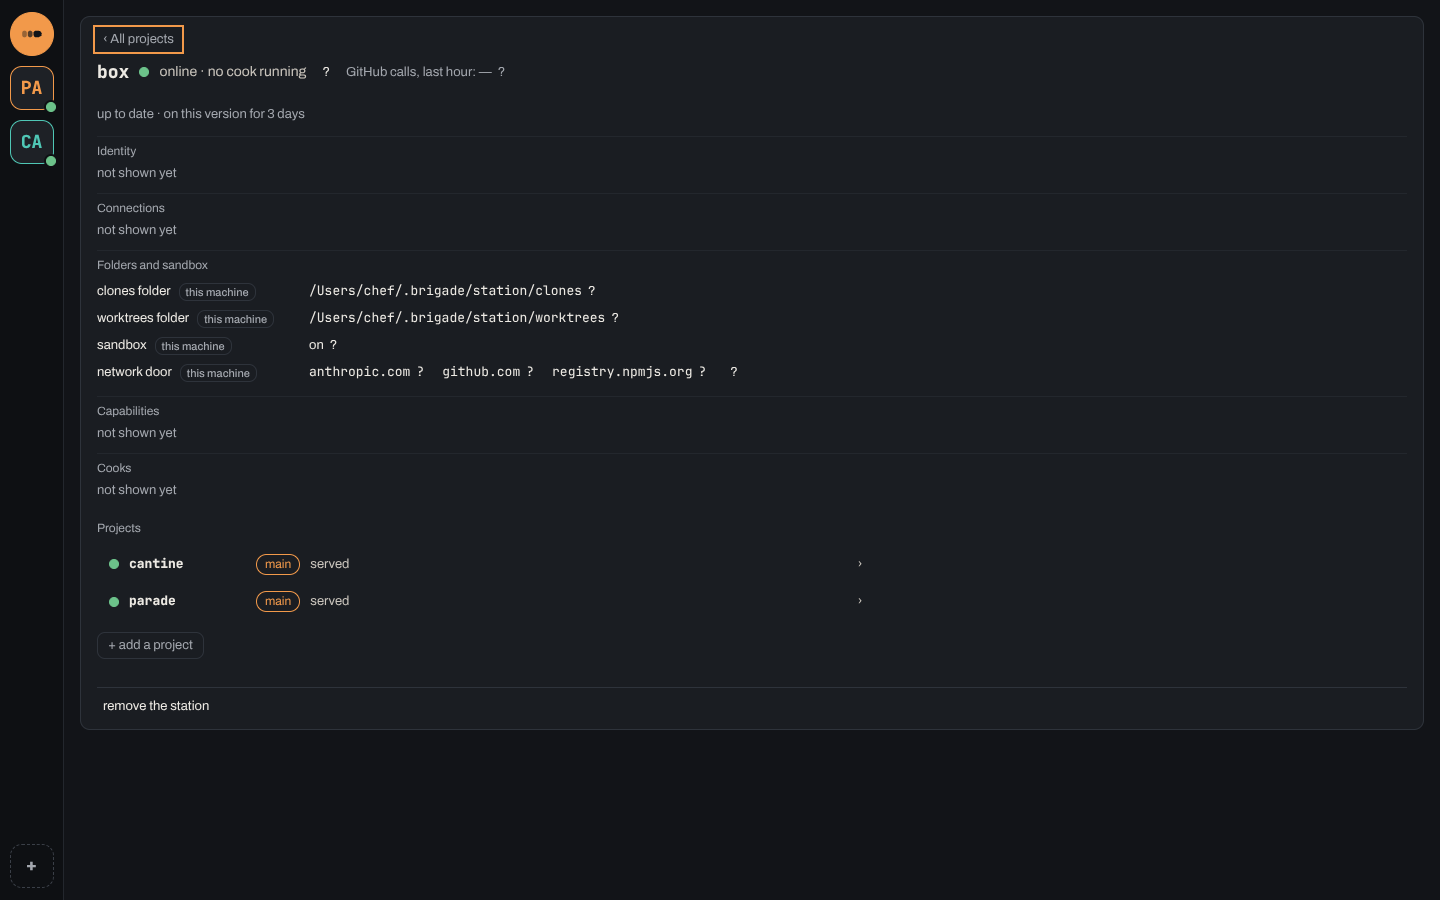
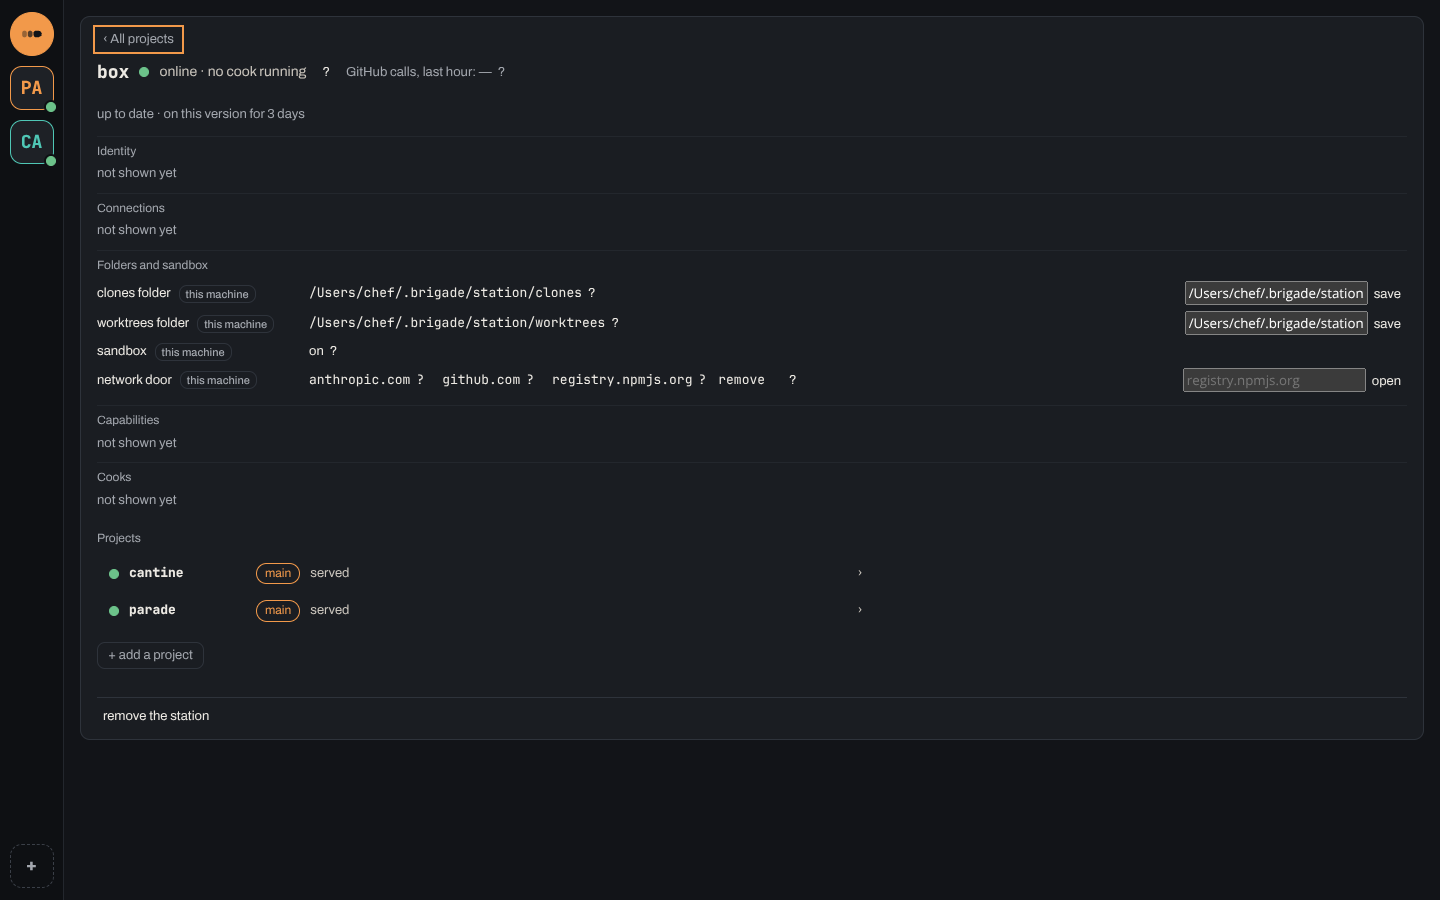
fix(#2644): the sandbox state is read, another station shows nothing invented, the section fixes its peau class and its review remarks

diff --git a/app/src/vue/station/page/sections/dossiers-et-bac-a-sable.js b/app/src/vue/station/page/sections/dossiers-et-bac-a-sable.js
@@ -30,6 +30,9 @@ export const BAC = {
 export const PORTE = "the network hosts a cook may reach — everything else is refused";
 export const INDISPONIBLE = "folders and sandbox unavailable";
 export const SANS_LECTURE = "this app does not read them";
+export const AUTRE_STATION = "not available for this station";
+export const SUR_SON_ORDINATEUR = "its folders and hosts are read and changed on its own computer";
+export const PAS_ENCORE = " — the station does not apply this setting yet";
 
 /** @param {Fabrique} doc @param {string} balise @param {string} texte @param {string} [classe] */
 function avec(doc, balise, texte, classe) {
@@ -61,25 +64,26 @@ function rangee(doc, { nom, cle, niveau, valeur, controle = [], dessous = "" }) 
 export function poserSection(doc, contexte) {
   const racine = doc.createElement("div");
   racine.className = "dossiers-et-bac-a-sable";
-  const port = contexte.reglages;
-  let refus = "";
+  const port = contexte.lectureSeule ? undefined : contexte.reglages;
+  /** @type {Record<string, string>} */
+  let refus = {};
 
   const lire = async () => {
-    const lus = port === undefined ? { refus: INDISPONIBLE, detail: SANS_LECTURE } : await port.lire().catch((/** @type {unknown} */ e) => ({ refus: INDISPONIBLE, detail: e instanceof Error ? e.message : String(e) }));
+    const lus = contexte.lectureSeule ? { refus: AUTRE_STATION, detail: SUR_SON_ORDINATEUR } : port === undefined ? { refus: INDISPONIBLE, detail: SANS_LECTURE } : await port.lire().catch((/** @type {unknown} */ e) => ({ refus: INDISPONIBLE, detail: e instanceof Error ? e.message : String(e) }));
     if ("refus" in lus) return racine.replaceChildren(lectureIndisponible(doc, lus.refus, lus.detail ?? ""));
     racine.replaceChildren(...lignes(lus));
   };
 
-  /** @param {{ clones?: string, worktrees?: string, hotes?: string[] }} changement */
-  const ecrire = async (changement) => {
+  /** @param {"clones" | "worktrees" | "porte"} cle @param {{ clones?: string, worktrees?: string, hotes?: string[] }} changement */
+  const ecrire = async (cle, changement) => {
     const rendu = await (port?.ecrire?.(changement) ?? Promise.resolve({ refus: "nothing was changed", detail: "this app cannot write them" }));
-    refus = "refus" in rendu ? rendu.refus : "";
+    refus = "refus" in rendu ? { [cle]: rendu.detail === undefined ? rendu.refus : `${rendu.refus} — ${rendu.detail}` } : {};
     await lire();
   };
 
   /** @param {Reglages} lus */
   function lignes(lus) {
-    const modifiable = !contexte.lectureSeule && port?.ecrire !== undefined;
+    const modifiable = port?.ecrire !== undefined;
     const niveau = () => niveauDe(doc, "dossier");
     /** @param {"clones" | "worktrees"} cle @param {string} nom @param {string} aide */
     const dossier = (cle, nom, aide) => {
@@ -89,18 +93,19 @@ export function poserSection(doc, contexte) {
         champ.type = "text";
         champ.value = lus[cle];
         champ.ariaLabel = `Change the ${nom}`;
-        controle.push(champ, boutonAction(doc, "save", () => void ecrire({ [cle]: String(champ.value).trim() })));
+        controle.push(champ, boutonAction(doc, "save", () => void ecrire(cle, { [cle]: String(champ.value).trim() })));
       }
-      return rangee(doc, { nom, cle: "dossier", niveau: niveau(), valeur: [avec(doc, "span", lus[cle], "mono"), survol(doc, aide)], controle, dessous: refus });
+      return rangee(doc, { nom, cle: "dossier", niveau: niveau(), valeur: [avec(doc, "span", lus[cle], "mono"), survol(doc, aide + PAS_ENCORE)], controle, dessous: refus[cle] ?? "" });
     };
     const bac = BAC[lus.bac];
     const ajoutes = lus.hotes.filter(({ ajoute }) => ajoute);
     const porte = [];
     for (const { hote, origine, ajoute } of lus.hotes) {
-      const un = avec(doc, "span", hote, "mono hote");
+      const un = avec(doc, "span", hote, "mono");
+      un.className = "mono hote";
       un.dataset.hote = hote;
       un.append(survol(doc, origine));
-      if (modifiable && ajoute) un.append(boutonAction(doc, "remove", () => void ecrire({ hotes: ajoutes.map((h) => h.hote).filter((h) => h !== hote) })));
+      if (modifiable && ajoute) un.append(boutonAction(doc, "remove", () => void ecrire("porte", { hotes: ajoutes.map((h) => h.hote).filter((h) => h !== hote) })));
       porte.push(un);
     }
     const controle = [];
@@ -109,13 +114,13 @@ export function poserSection(doc, contexte) {
       champ.type = "text";
       champ.placeholder = "registry.npmjs.org";
       champ.ariaLabel = "Host to open";
-      controle.push(champ, boutonAction(doc, "open", () => void ecrire({ hotes: [...ajoutes.map((h) => h.hote), String(champ.value).trim()] })));
+      controle.push(champ, boutonAction(doc, "open", () => void ecrire("porte", { hotes: [...ajoutes.map((h) => h.hote), String(champ.value).trim()] })));
     }
     return [
       dossier("clones", "clones folder", CLONES),
       dossier("worktrees", "worktrees folder", WORKTREES),
       rangee(doc, { nom: "sandbox", cle: "bac", niveau: niveauDe(doc, "ordinaires"), valeur: [avec(doc, "span", bac.dit), survol(doc, bac.survol)] }),
-      rangee(doc, { nom: "network door", cle: "porte", niveau: niveauDe(doc, "porte"), valeur: [...porte, survol(doc, PORTE)], controle }),
+      rangee(doc, { nom: "network door", cle: "porte", niveau: niveauDe(doc, "porte"), valeur: [...porte, survol(doc, PORTE + PAS_ENCORE)], controle, dessous: refus.porte ?? "" }),
     ];
   }
 

diff --git a/app/test/station-page-dossiers.test.ts b/app/test/station-page-dossiers.test.ts
@@ -1,7 +1,7 @@
 // La section « Folders and sandbox » de la page d'une station (#2644) : elle montre les dossiers, le bac à sable et la
 // porte réseau, change un dossier ou la porte sur cet ordinateur et le relit, et ne change rien sur une autre station.
 import assert from "node:assert/strict";
-import { mkdtempSync, rmSync } from "node:fs";
+import { mkdtempSync, readFileSync, rmSync, writeFileSync } from "node:fs";
 import { tmpdir } from "node:os";
 import { join } from "node:path";
 import { describe, test } from "node:test";
@@ -20,10 +20,10 @@ const ligne = (page: Faux, cle: string) => descendants(page).find((n) => n.datas
 const texte = (noeud: Faux): string => descendants(noeud).map((n) => n.textContent).join("|");
 
 // Un port en mémoire, soutenu par le vrai magasin de l'app dans un dossier d'essai.
-function port() {
+function port(sansBac = false) {
   const dossier = mkdtempSync(join(tmpdir(), "reglages-"));
   const fichier = join(dossier, "station-reglages.json");
-  return { fichier, dossier, lire: async () => lireReglagesDeLaStation(fichier, CALCULES), ecrire: async (c: any) => ecrireReglagesDeLaStation(fichier, c) };
+  return { fichier, dossier, lire: async () => lireReglagesDeLaStation(fichier, CALCULES, sansBac), ecrire: async (c: any) => ecrireReglagesDeLaStation(fichier, c) };
 }
 async function section(locale: string, reglages: ReturnType<typeof port>) {
   const page = (await poserPageDeStation(doc, { station: STATION, locale, reglages })) as Faux;
@@ -71,16 +71,54 @@ describe("la section dossiers et bac à sable", () => {
     descendants(ligne(page, "dossier")).find((n) => n.balise === "button" && n.textContent === "save")?.click();
     await repos();
     assert.match(texte(page), /must be an absolute path/);
-    assert.equal((await reglages.lire()).clones, "/st/clones");
+    assert.equal((await reglages.lire() as { clones: string }).clones, "/st/clones");
     rmSync(reglages.dossier, { recursive: true });
   });
 
-  test("sur une autre station, la section montre sans offrir de rien changer", async () => {
+  test("le bac à sable s'affiche « off » quand le chef a choisi de continuer sans", async () => {
+    const reglages = port(true);
+    const page = await section("gist-mac", reglages);
+    assert.match(texte(ligne(page, "bac")), /off/);
+    rmSync(reglages.dossier, { recursive: true });
+  });
+
+  test("un hôte ouvert se retire, un hôte invalide est refusé sous la porte", async () => {
+    const reglages = port();
+    const page = await section("gist-mac", reglages);
+    const porte = () => descendants(ligne(page, "porte"));
+    (porte().find((n) => n.balise === "input") as Faux).value = "registry.npmjs.org";
+    porte().find((n) => n.balise === "button" && n.textContent === "open")?.click();
+    await repos();
+    assert.match(texte(page), /registry\.npmjs\.org/);
+    (porte().find((n) => n.balise === "input") as Faux).value = "not a host";
+    porte().find((n) => n.balise === "button" && n.textContent === "open")?.click();
+    await repos();
+    assert.match(texte(ligne(page, "porte")), /not a host/);
+    assert.doesNotMatch(texte(ligne(page, "dossier")), /not a host/, "le refus reste sous son réglage");
+    porte().find((n) => n.balise === "button" && n.textContent === "remove")?.click();
+    await repos();
+    assert.doesNotMatch(texte(page), /registry\.npmjs\.org/);
+    rmSync(reglages.dossier, { recursive: true });
+  });
+
+  test("un fichier corrompu se dit et n'est pas écrasé ; un chemin Windows absolu passe", () => {
+    const dossier = mkdtempSync(join(tmpdir(), "reglages-"));
+    const fichier = join(dossier, "station-reglages.json");
+    writeFileSync(fichier, "{ pas du json");
+    assert.ok("refus" in lireReglagesDeLaStation(fichier, CALCULES));
+    assert.ok("refus" in ecrireReglagesDeLaStation(fichier, { clones: "/a" }));
+    assert.equal(readFileSync(fichier, "utf8"), "{ pas du json");
+    rmSync(fichier);
+    assert.deepEqual(ecrireReglagesDeLaStation(fichier, { clones: "C:\\brigade\\clones" }), { fait: "saved on this machine" });
+    rmSync(dossier, { recursive: true });
+  });
+
+  test("sur une autre station, la section ne montre rien de cet ordinateur et n'offre rien à changer", async () => {
     const reglages = port();
     const page = await section("autre-station", reglages);
-    assert.match(texte(page), /\/st\/clones/);
-    assert.match(texte(page), /github\.com/);
-    assert.equal(descendants(page).filter((n) => n.balise === "input" || n.balise === "button" && n.textContent !== "?").length, 0);
+    assert.match(texte(page), /not available for this station/);
+    assert.doesNotMatch(texte(page), /\/st\/clones|github\.com/);
+    assert.equal(descendants(page).filter((n) => n.balise === "input" || (n.balise === "button" && n.textContent !== "?")).length, 0);
     rmSync(reglages.dossier, { recursive: true });
   });
 });

diff --git a/app/src/reglages-de-la-station.ts b/app/src/reglages-de-la-station.ts
@@ -3,7 +3,7 @@
 // chef a changé — un dossier, les hôtes qu'il ouvre en plus du socle et de ce que le dépôt déclare ; le reste se lit
 // là où la station le calcule. Le fichier est relu à chaque lecture : ce qui est écrit se montre au rechargement.
 import { mkdirSync, readFileSync, renameSync, writeFileSync } from "node:fs";
-import { dirname, isAbsolute } from "node:path";
+import { dirname, posix, win32 } from "node:path";
 
 export type Reglages = { clones: string; worktrees: string; bac: "on" | "off"; hotes: { hote: string; origine: string; ajoute: boolean }[] };
 export type Changement = { clones?: string; worktrees?: string; hotes?: string[] };
@@ -19,17 +19,29 @@ export const SOCLE = [
 export const OUVERT_PAR_LE_CHEF = "opened by you on this machine";
 const HOTE = /^(\*\.)?((?:[a-z0-9](?:[a-z0-9-]*[a-z0-9])?\.)+[a-z](?:[a-z0-9-]*[a-z0-9])?)(:[1-9][0-9]{0,4})?$/;
 
+const absolu = (chemin: string) => posix.isAbsolute(chemin) || win32.isAbsolute(chemin);
+
+// Un fichier absent n'a rien gardé ; un fichier illisible (JSON corrompu) se dit, pour que l'écriture ne l'écrase pas.
 function lireGardes(fichier: string): Gardes {
+  let brut: string;
   try {
-    const lu = JSON.parse(readFileSync(fichier, "utf8"));
-    return typeof lu === "object" && lu !== null && !Array.isArray(lu) ? lu : {};
-  } catch {
-    return {};
+    brut = readFileSync(fichier, "utf8");
+  } catch (erreur) {
+    if ((erreur as NodeJS.ErrnoException).code === "ENOENT") return {};
+    throw erreur;
   }
+  const lu = JSON.parse(brut);
+  if (typeof lu !== "object" || lu === null || Array.isArray(lu)) throw new Error("the file does not hold an object");
+  return lu;
 }
 
-export function lireReglagesDeLaStation(fichier: string, calcules: { clone: string; worktrees: string }, sansBac = false): Reglages {
-  const gardes = lireGardes(fichier);
+export function lireReglagesDeLaStation(fichier: string, calcules: { clone: string; worktrees: string }, sansBac = false): Reglages | Refus {
+  let gardes: Gardes;
+  try {
+    gardes = lireGardes(fichier);
+  } catch (erreur) {
+    return { refus: "the saved folders and hosts could not be read", detail: erreur instanceof Error ? erreur.message : String(erreur) };
+  }
   const ajoutes = Array.isArray(gardes.hotes) ? gardes.hotes.filter((h): h is string => typeof h === "string") : [];
   return {
     clones: gardes.clones ?? calcules.clone,
@@ -40,11 +52,16 @@ export function lireReglagesDeLaStation(fichier: string, calcules: { clone: stri
 }
 
 export function ecrireReglagesDeLaStation(fichier: string, changement: Changement): { fait: string } | Refus {
-  const gardes = lireGardes(fichier);
+  let gardes: Gardes;
+  try {
+    gardes = lireGardes(fichier);
+  } catch (erreur) {
+    return { refus: "nothing was changed: the saved file could not be read", detail: erreur instanceof Error ? erreur.message : String(erreur) };
+  }
   for (const cle of ["clones", "worktrees"] as const) {
     const valeur = changement[cle];
     if (valeur === undefined) continue;
-    if (typeof valeur !== "string" || !isAbsolute(valeur)) return { refus: `the ${cle} folder must be an absolute path`, detail: `“${String(valeur)}” is not one` };
+    if (typeof valeur !== "string" || !absolu(valeur)) return { refus: `the ${cle} folder must be an absolute path`, detail: `“${String(valeur)}” is not one` };
     gardes[cle] = valeur;
   }
   if (changement.hotes !== undefined) {

diff --git a/app/src/main.ts b/app/src/main.ts
@@ -1045,11 +1045,13 @@ ipcMain.handle("dossiersDeLaStation", async (_, nom: unknown): Promise<DossiersD
 // Les dossiers et la porte réseau de la station de cet ordinateur, changés depuis sa page (#2644) : lus et écrits dans un
 // fichier de cette machine (reglages-de-la-station.ts). Un téléphone n'a pas de station.
 const fichierDesReglagesDeLaStation = join(dirname(cheminConfiguration()), "station-reglages.json");
+// Le bac à sable est « off » dès qu'un projet cuisiné ici a reçu « continuer sans » (suivi publié par la principale).
+const sansBacASable = () => (projetsDesStations.vu()?.projets ?? []).some((projet) => projet.onboarding?.sansBacASable === true && projet.stations.some(({ principale, id }) => principale && id === projetsDesStations.vu()?.locale));
 ipcMain.handle("reglagesDeLaStation:lire", async () => {
   if (role.role !== "station") return { refus: "this device runs no station" };
   try {
     const { lieuxDuProjet, worktreesDeLaStation } = (await import(pathToFileURL(join(emplacements.runtime, "src", "station", "configuration.ts")).href)) as typeof import("../../runtime/src/station/configuration.ts");
-    return lireLesReglagesDeStation(fichierDesReglagesDeLaStation, { clone: dirname(lieuxDuProjet(racineDeLaStation, "x", process.env.HOME).clone), worktrees: worktreesDeLaStation(racineDeLaStation, process.env.HOME) });
+    return lireLesReglagesDeStation(fichierDesReglagesDeLaStation, { clone: dirname(lieuxDuProjet(racineDeLaStation, "x", process.env.HOME).clone), worktrees: worktreesDeLaStation(racineDeLaStation, process.env.HOME) }, sansBacASable());
   } catch (erreur) {
     return { refus: "its folders could not be read", detail: erreur instanceof Error ? erreur.message : String(erreur) };
   }

diff --git a/app/src/vue/station/page/StationPage.js b/app/src/vue/station/page/StationPage.js
@@ -23,8 +23,9 @@ import { niveauReglage } from "./NiveauReglage.js";
 /**
  * Ce que chaque section reçoit : la station, si elle est celle de cet ordinateur, si elle se montre sans se régler, et
  * la marque du niveau d'un réglage, par sa clé de niveaux.js.
- * @typedef {{ station: StationOuverte, ici: boolean, lectureSeule: boolean, niveau(cle: string): any, reglages?: any }} Contexte
+ * @typedef {{ station: StationOuverte, ici: boolean, lectureSeule: boolean, niveau(cle: string): any, reglages?: Port }} Contexte
  */
+/** @typedef {import("./sections/dossiers-et-bac-a-sable.js").Port} Port */
 /** @typedef {{ poserSection(doc: Fabrique, contexte: Contexte): any }} Section */
 /** @typedef {(fichier: string) => Promise<Partial<Section>> | undefined} Charger */
 
@@ -54,7 +55,7 @@ export function estCetOrdinateur(station, locale) {
 const depuisSections = (fichier) => (LIVREES.has(fichier) ? import(`./sections/${fichier}.js`) : undefined);
 
 // La page entière : un élément par section, dans l'ordre de SECTIONS, posé quand toutes sont rendues.
-/** @param {Fabrique} doc @param {{ station: StationOuverte, locale: string | null | undefined, charger?: Charger, reglages?: any }} ouverte */
+/** @param {Fabrique} doc @param {{ station: StationOuverte, locale: string | null | undefined, charger?: Charger, reglages?: Port }} ouverte */
 export async function poserPageDeStation(doc, { station, locale, charger = depuisSections, reglages }) {
   const ici = estCetOrdinateur(station, locale);
   /** @type {Contexte} */

diff --git a/scripts/capture-ecran/ecrans/station-dossiers.ts b/scripts/capture-ecran/ecrans/station-dossiers.ts
@@ -1,14 +1,16 @@
-// La page d'une station en ligne qui n'est pas celle de cet ordinateur (#2644) : sa section « Folders and sandbox » se
-// montre — les dossiers, le bac à sable, la porte réseau —, sans rien offrir de changer.
+// La page de la station de cet ordinateur (#2644) : sa section « Folders and sandbox » montre les dossiers, le bac à
+// sable et la porte réseau, avec de quoi changer un dossier et ouvrir un hôte.
 import type { Ecran } from "./commun.ts";
 import { pageDeStation } from "./station-pannes.ts";
 
-const base = pageDeStation("en-ligne", "la page d'une station en ligne, une autre que cet ordinateur : ses dossiers, son bac à sable et sa porte réseau, en lecture seule");
+const base = pageDeStation("en-ligne", "la page de la station de cet ordinateur : ses dossiers, son bac à sable et sa porte réseau, à changer");
 
 export const ecran: Ecran = {
   ...base,
   donnees: () => {
     const donnees = base.donnees();
+    (donnees.reponses.demarrage as { projetsDesStations: { locale: string | null } }).projetsDesStations.locale = "box";
+    donnees.reponses.ecrireReglagesDeLaStation = { fait: "saved on this machine" };
     donnees.reponses.lireReglagesDeLaStation = {
       clones: "/Users/chef/.brigade/station/clones",
       worktrees: "/Users/chef/.brigade/station/worktrees",

diff --git a/app/src/vue/vue.js b/app/src/vue/vue.js
@@ -6390,7 +6390,7 @@ function poserLesSectionsDeStation(station) {
   const posees = JSON.stringify([station.id, station.nom, locale]);
   if (posees === sectionsDeStationPosees) return;
   sectionsDeStationPosees = posees;
-  void poserLaCoqueDeStation(document, { station, locale, reglages: brigade.lireReglagesDeLaStation && { lire: () => brigade.lireReglagesDeLaStation?.(), ecrire: (/** @type {any} */ c) => brigade.ecrireReglagesDeLaStation?.(c) } }).then((page) => {
+  void poserLaCoqueDeStation(document, { station, locale, reglages: brigade.lireReglagesDeLaStation === undefined ? undefined : { lire: async () => (await brigade.lireReglagesDeLaStation?.()) ?? { refus: "folders and sandbox unavailable" }, ecrire: async (/** @type {any} */ c) => (await brigade.ecrireReglagesDeLaStation?.(c)) ?? { refus: "nothing was changed" } } }).then((page) => {
     if (sectionsDeStationPosees === posees) sectionsDeStation.replaceChildren(page);
   });
 }

diff --git a/docs/app.md b/docs/app.md
@@ -1686,8 +1686,9 @@ state (on / off) and the network door — the hosts a cook may reach, each with 
 `this machine` mark. On this computer's station a folder and the network door change from a field and a button (`save`,
 `open`, `remove`); the change is kept in `station-reglages.json` beside the app file (`app/src/reglages-de-la-station.ts`)
 and read back at every load. On another station the section shows the same, with nothing to change. The station does not
-read that file yet: it is the app's side of the setting. Screens: `docs/captures/2644/`.
-
+read that file yet: it is the app's side of the setting (each setting's hover says so). The sandbox state is read from
+the projects' onboarding: off once a project cooked here continued without it. On another station the section shows
+"not available for this station" — the app reads nothing of a station it does not run. Screens: `docs/captures/2644/`.
 
 ```
 box      ●  online · 2 cooks running   ?
